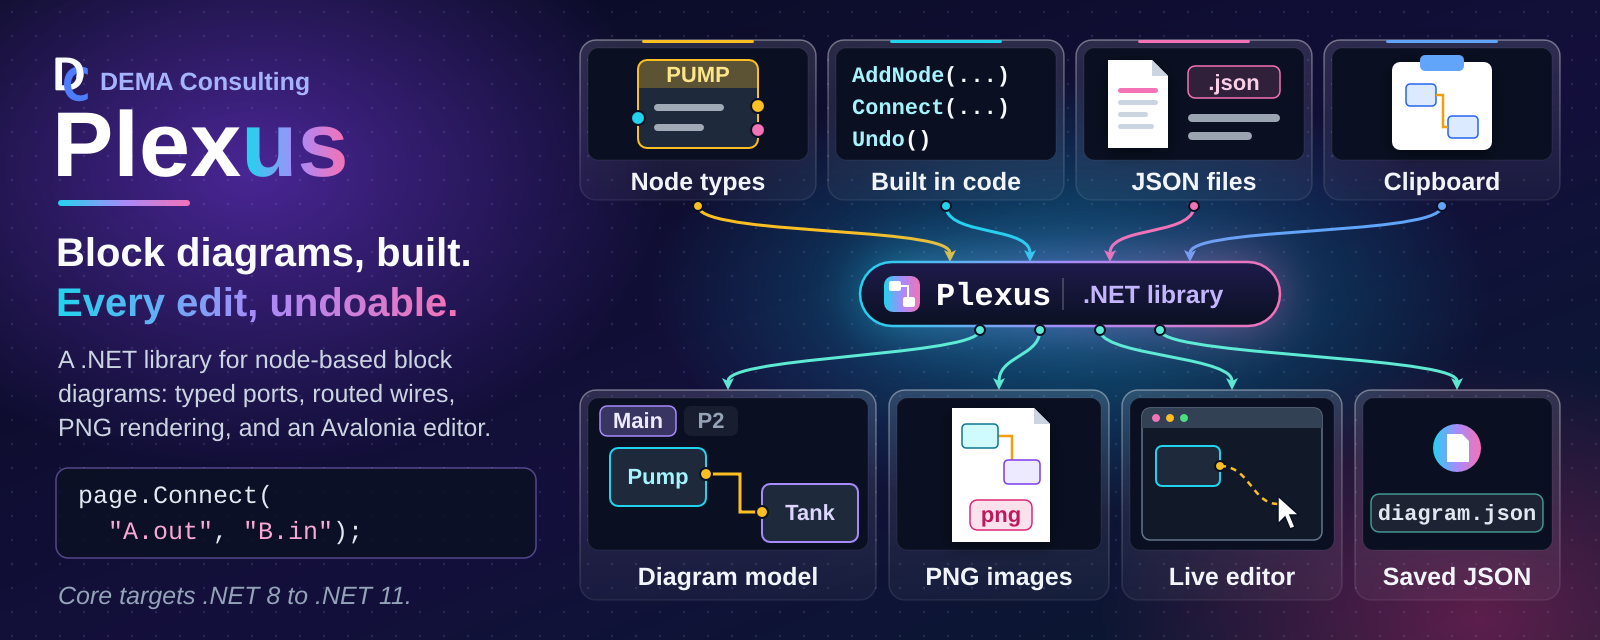
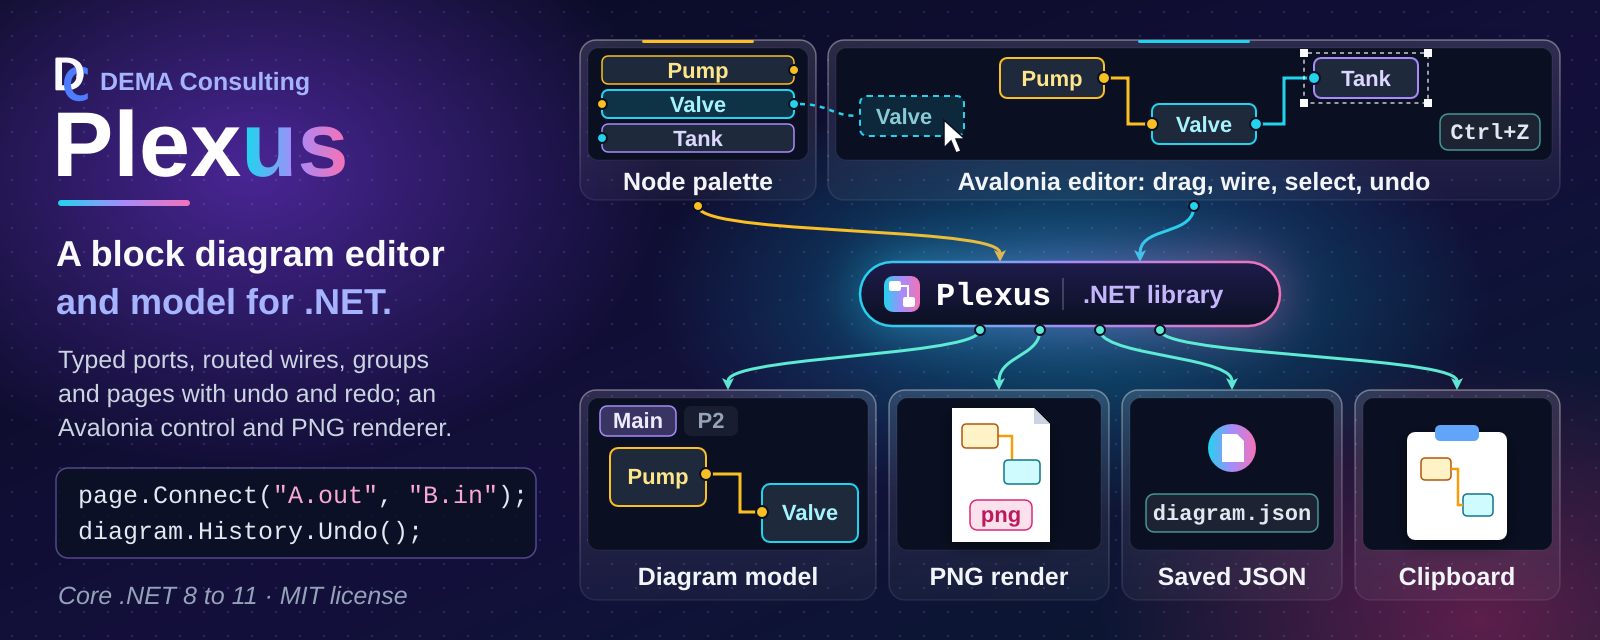
Sync agents/template and calm the README hero (#34)
* Sync agents, skills and standards from shared Agents repo

Record the legacy SysML2 package layout as a repository-specific exception.

* Sync template: yamlfix comment rewrite off, script CUSTOMIZATION headers

* Redesign the README hero as a calm diagram-designer banner and make it the H1

---------

diff --git a/.github/standards/sysml2-modeling.md b/.github/standards/sysml2-modeling.md
@@ -31,15 +31,15 @@ docs/sysml2/
 ├── common/
 │   └── software-items.sysml           # shared SoftwareItemMetadata::SoftwareInfo metadata def
 ├── model/
-│   ├── {system-name}.sysml            # system-level part def only (no subsystems/units inline)
+│   ├── {system-name}.sysml            # package {SystemName}; system-level part def only (no subsystems/units inline)
 │   ├── {system-name}/
-│   │   ├── {subsystem-name}.sysml     # subsystem part def; nests further for sub-subsystems
+│   │   ├── {subsystem-name}.sysml     # package {SystemName}_{SubsystemName}Subsystem; nests further for sub-subsystems
 │   │   └── {subsystem-name}/
-│   │       └── {unit-name}.sysml      # one file per unit
-│   ├── ots.sysml                      # OTS dependency parts (optional; if OTS items exist)
-│   └── shared.sysml                   # Shared Package parts (optional; if Shared Packages exist)
+│   │       └── {unit-name}.sysml      # package {SystemName}_{UnitName}; one file per unit
+│   ├── ots.sysml                      # package OtsDependencies: OTS parts (optional; if OTS items exist)
+│   └── shared.sysml                   # package SharedPackages: Shared Package parts (optional; if Shared Packages exist)
 └── views/
-    └── design-views.sysml             # named view usages rendered for the design document
+    └── design-views.sysml             # package {RepoName}DesignViews; named view usages rendered for the design document
 ```
 
 `docs/sysml2/common/software-items.sysml` defines the `SoftwareItemMetadata::SoftwareInfo`
@@ -62,14 +62,42 @@ so no single alias name would generalize. Agents discover the system(s) present 
 `docs/sysml2/**/*.sysml`, not by assuming a fixed name.
 
 Always pass the full set of `.sysml` files (or an equivalent glob) to every `sysml2tools`
-invocation — the model spans multiple files and cross-references between them; files sharing
-the same `package Name { ... }` merge into one namespace automatically with no `import`
-required, as long as all files are passed together. As of `sysml2tools` 0.1.0-beta.5,
+invocation — the model spans multiple files and cross-references between them, and a
+reference only resolves when the file declaring its target is loaded (see Package Structure
+below for how files reference each other). As of `sysml2tools` 0.1.0-beta.5,
 `lint` and `render` both expand `*`/`**` glob patterns internally (recursing correctly into
 subdirectories), so pass a single **quoted** glob string (e.g. `'docs/sysml2/**/*.sysml'`)
 and let the tool resolve it — do not rely on the shell to expand it, and do not quote-strip
 the pattern before it reaches the tool. Quoting keeps the behavior identical across
 PowerShell and bash, since neither shell needs to (or reliably does) expand `**` itself.
+
+## Package Structure
+
+SysML v2 has no package merging: each file is its own root namespace, and two root packages
+with the same name are duplicate members of the global namespace (the OMG Pilot
+Implementation reports "Duplicate of other owned member name" for each, and references across
+the halves do not resolve). A model that only loads because a tool is lenient is not portable,
+so:
+
+- Each `.sysml` file declares **exactly one uniquely named package**, and a package is never
+  declared (or "reopened") in more than one file.
+- Name each package from its place in the hierarchy, joined with an underscore:
+  `{SystemName}` for the system file, `{SystemName}_{SubsystemName}Subsystem` for a subsystem
+  (including a nested sub-subsystem, which is not prefixed with its parent subsystem), and
+  `{SystemName}_{UnitName}` for a unit. The system prefix keeps names unique across systems.
+  The shared files use `OtsDependencies` and `SharedPackages`, and the single views file uses
+  one repository-level package, `{RepoName}DesignViews` (not one per system).
+- Package names must be unique **repository-wide**. The short forms above are the default;
+  when one would collide (two `Storage` subsystems in different branches, or two units named
+  `Cache` in different subsystems), qualify it with the owning subsystem path, for example
+  `{SystemName}_{SubsystemName}_{UnitName}` (`Acme_Ingest_Cache` and `Acme_Query_Cache`).
+- Reference other files with an explicit `private import {PackageName}::*;` (a system or
+  subsystem file imports the package of each direct member so its `part` usages resolve; every
+  file that applies `SoftwareInfo` imports `SoftwareItemMetadata::*`).
+- Where an import would form a cycle (for example a unit that depends on a package that
+  already imports it), or for a one-off reference into another system, use the qualified name
+  instead, e.g. `dependency {UnitName} to {SystemName}_{OtherUnit}::{OtherUnit};`.
+  Import cycles raise a lint warning; qualified references do not.
 
 ## Model Content
 
@@ -174,11 +202,13 @@ Views control what gets rendered into diagrams for the design document. Use name
 **usages** (not `view def` **definitions**) — `expose` is only valid inside a usage:
 
 ```sysml
-package {SystemName} {
+package {RepoName}DesignViews {
     private import StandardViewDefinitions::*;
+    private import {SystemName}::*;
+    private import {SystemName}_{SubsystemName}Subsystem::*;
 
     view SoftwareStructureView : InterconnectionView {
-        expose {SystemName}::**;     // all members, recursively: system + subsystems + units
+        expose {SystemName}::{SystemName}System::**;  // system part def, recursively: subsystems + units
     }
 
     view {SystemName}View {
@@ -186,10 +216,12 @@ package {SystemName} {
     }
 
     view {SubsystemName}View {
-        expose {SubsystemName};      // one subsystem def only
+        expose {SubsystemName}Subsystem;      // one subsystem def only
     }
 }
 ```
+
+Views import (or qualify) every package whose members they expose, like any other file.
 
 Type `SoftwareStructureView` by a standard view definition from the SysML v2 Views library
 (`GeneralView`, `InterconnectionView`, ...; requires `sysml2tools` 0.3.0-beta.3+). The view
@@ -223,25 +255,27 @@ There is no dedicated `DependencyView`/`{SubsystemName}DependencyView` diagram c
 above), not rendered.
 
 When a repository has multiple systems, type `SoftwareStructureView` by `GeneralView`,
-expose each system package's members, and filter out documentation so the overview stays
-readable — the general view draws one package frame per system, while an interconnection
-view places all systems in a single row:
+expose each system's part def (and each subsystem's, by qualified name), and filter out
+documentation so the overview stays readable — the general view draws one package frame per
+system, while an interconnection view places all systems in a single row:
 
 ```sysml
 package {RepoName}DesignViews {
     private import StandardViewDefinitions::*;
 
     view SoftwareStructureView : GeneralView {
-        expose {SystemNameA}::**;
-        expose {SystemNameB}::**;
-        filter not @SysML::Documentation;
+        expose {SystemNameA}::{SystemNameA}System;
+        expose {SystemNameA}_{SubsystemName}Subsystem::{SubsystemName}Subsystem;
+        expose {SystemNameB}::{SystemNameB}System;
+        filter not (@SysML::Documentation);
     }
 }
 ```
 
 Documentation (`doc`) is exposed with its owner and drawn as a `doc` compartment unless a
-view filters it out; use `filter not @SysML::Documentation;` wherever doc text would clutter
-a diagram.
+view filters it out; use `filter not (@SysML::Documentation);` wherever doc text would clutter
+a diagram. The parentheses are required: the SysML v2 grammar does not accept the unparenthesized
+`filter not @SysML::Documentation;`.
 
 ## Diagram Embedding
 
@@ -313,6 +347,9 @@ sync.
   `sourceFiles`; the purpose statement appears only in the `doc` comment, never in `SoftwareInfo`
 - [ ] `docs/sysml2/views/design-views.sysml` uses `view Name { expose ...; }` usages, not
   `view def` definitions
+- [ ] Each `.sysml` file declares exactly one uniquely named package (never the same package
+  in two files), named per Package Structure, and references other files through
+  `private import` or qualified names (qualified where an import would form a cycle)
 - [ ] View names follow the `SoftwareStructureView` / `{SystemName}View` /
   `{SubsystemName}View` convention (no dedicated `DependencyView`)
 - [ ] Each Unit's real collaborators are captured as `dependency A to B;` statements, and each

diff --git a/.github/skills/sysml2tools-query/SKILL.md b/.github/skills/sysml2tools-query/SKILL.md
@@ -21,11 +21,15 @@ dotnet tool restore
 ## Model files
 
 - `docs/sysml2/model/{system-name}.sysml` — system-level `part def` only (no subsystems/units
-  inline). A repository may contain more than one system.
+  inline), in package `{SystemName}`. A repository may contain more than one system.
 - `docs/sysml2/model/{system-name}/{subsystem-name}.sysml` and
   `docs/sysml2/model/{system-name}/{subsystem-name}/{unit-name}.sysml` — one file per
   Subsystem/Unit, nested to mirror the same folder depth as that item's companion
-  `docs/design/`, `docs/reqstream/`, and `docs/verification/` files.
+  `docs/design/`, `docs/reqstream/`, and `docs/verification/` files. Each declares its own
+  uniquely named package; by default `{SystemName}_{SubsystemName}Subsystem` or
+  `{SystemName}_{UnitName}`, qualified with the subsystem path
+  (`{SystemName}_{SubsystemName}_{UnitName}`) when the short name would collide. An element's
+  qualified name is e.g. `{SystemName}_{UnitName}::{UnitName}`.
 - `docs/sysml2/model/ots.sysml` — off-the-shelf (OTS) dependency parts (present when OTS items
   exist).
 - `docs/sysml2/model/shared.sysml` — Shared Package parts (present when Shared Package items
@@ -35,9 +39,10 @@ dotnet tool restore
   useful to see how diagrams are scoped.
 
 Always pass all `.sysml` files (or a glob covering them) to every `sysml2tools`
-invocation — the model spans multiple files and cross-references between them; files that
-reopen the same `package Name { ... }` from different files merge into one namespace
-automatically, no `import` required. As of `sysml2tools` 0.1.0-beta.5, every subcommand
+invocation — the model spans multiple files and cross-references between them (each file
+declares one uniquely named package and references others through `import` or qualified
+names; same-named packages in different files are not merged), so every file a reference
+points at must be loaded. As of `sysml2tools` 0.1.0-beta.5, every subcommand
 (`lint`, `render`, `query`) expands `*`/`**` glob patterns internally and recurses
 correctly — pass a single **quoted** glob string and let the tool resolve it, rather than
 relying on the shell (quoting works identically in both PowerShell and bash):
@@ -57,7 +62,7 @@ summary line, so one query gets you every artifact location for that item withou
 the source tree:
 
 ```pwsh
-dotnet sysml2tools query describe -e {SystemName}::{UnitName} 'docs/sysml2/**/*.sysml'
+dotnet sysml2tools query describe -e {SystemName}_{UnitName}::{UnitName} 'docs/sysml2/**/*.sysml'
 ```
 
 ```text

diff --git a/AGENTS.md b/AGENTS.md
@@ -180,10 +180,32 @@ requires it and the modification preserves the documented design intent:
 
 - `.reviewmark.yaml`, `.textlint.yaml`, `.editorconfig`
 - `.lintmark.yaml`, `.yamllint.yaml`
-- `requirements.yaml`, `fix.ps1`, `lint.ps1`
+- `requirements.yaml`
+
+# Project Scripts
+
+`build.ps1`, `lint.ps1`, and `fix.ps1` belong to the project: extend them as it grows. Add project-specific
+steps, update tool versions, and add optional parameters that focus a run (for example one library in a
+multi-library repository, or headless tests without GUI automation). Two rules keep them trustworthy:
+
+- Run with no arguments, each script still does its full job (CI and the agents rely on that); slow or
+  environment-dependent test tiers may be opt-in switches of `build.ps1`.
+- Never remove or weaken a check to make lint or tests pass.
 
 # Continuous Compliance Overview
 
 This repository follows the [Continuous Compliance](https://github.com/demaconsulting/ContinuousCompliance)
 approach. Tools: **ReqStream** (requirements traceability), **ReviewMark** (file review enforcement),
 **BuildMark** (tool versions), **VersionMark** (version tracking).
+
+# Repository-Specific Standards Exceptions
+
+## SysML2 package structure (legacy layout, migration pending)
+
+The model under `docs/sysml2/` predates the `sysml2-modeling.md` Package Structure rules. Package
+`Plexus` is reopened across 32 files, `PlexusAvalonia` across 11, `PlexusAvaloniaPropertyGrid` across 12
+and `PlexusRendering` across 6 (each count includes `views/design-views.sysml`, which reopens them rather
+than declaring `PlexusDesignViews`); the OTS package is `OTS` rather than `OtsDependencies`. The
+`sysml2-modeling.md` Package Structure rules and the `sysml2tools-query` qualified-name examples apply once
+the model is migrated in a dedicated PR. Until then agents use the existing package names and must not
+partially restructure the model.

diff --git a/.github/skills/docdown/SKILL.md b/.github/skills/docdown/SKILL.md
@@ -21,7 +21,9 @@ dotnet docdown --help
 
 ## Scratch Folder
 
-The default `--overwrite clean` deletes everything in the scratch folder, so always pass a new
+The default `--overwrite clean` only replaces an earlier DocDown extraction: it deletes the files that
+folder's DocDown manifest lists and refuses to run if the folder holds anything else
+(`--overwrite overwrite` deletes everything and is never needed here). Still, always pass a new
 subfolder dedicated to the one document - never an existing folder:
 
 - **Preferred**: the agent session folder, when the host provides one, for example
@@ -39,8 +41,9 @@ Never extract into the repository.
    dotnet docdown --input path/to/data-sheet.pdf --scratch {scratch}/data-sheet
    ```
 
-   The last line of output is the path to `summary.txt`. Exit code `1` means the document was
-   unreadable or an argument was bad.
+   The last line of output is the path to `summary.txt`. Exit code `1` means the run failed for an
+   expected reason - an unreadable document, a bad argument, or an option such as `--log` whose file
+   could not be opened; the message says which.
 
 2. Read `summary.txt` first: what was extracted, what is where, and notes on anything that could
    not be read.

diff --git a/.github/agents/orchestrator.agent.md b/.github/agents/orchestrator.agent.md
@@ -48,3 +48,16 @@ briefly, what you loaded.
   let the user answer in their own words. Do not batch decisions into structured question forms (such as an
   `ask_user` tool); they strip away the context the user needs to decide and turn the session into a
   questionnaire.
+
+# Pull Requests (MANDATORY)
+
+Aim for pull requests that each merge one complete, useful change that could be cherry-picked on its own.
+
+- Before starting work that could span more than one pull request, propose the grouping and let the user
+  decide. The user may split it, or combine several small requests into one pull request.
+- When splitting, split by behavior, not by layer or file type: each part carries its own code, tests,
+  requirements, and docs, builds and passes alone, and leaves no stubs or dead code for a later part.
+- Deliver parts in order: start the next part from main only after the previous one merges.
+- Review fixes, lint fixes, and follow-ups go into the open pull request they belong to, not a new one.
+- Sub-agents work on the agreed branch and do not open pull requests; you decide when it is complete.
+- Keep mechanical churn (formatting, renames, generated files) in its own commit so reviewers can skip it.

diff --git a/.github/agents/planning.agent.md b/.github/agents/planning.agent.md
@@ -52,10 +52,13 @@ Repeat up to 2 more times, stopping when the plan is stable.
 
 List up to 5 risks with a brief mitigation for each.
 
-## Step 6 — Feasibility Assessment
+## Step 6 — Feasibility and Delivery
 
 State whether this can be implemented in a single development pass and any
-preconditions that affect feasibility.
+preconditions that affect feasibility. Propose how the work groups into pull
+requests: one complete, useful change per pull request where possible; if it
+should be split, list ordered parts that are split by behavior (not by layer or
+file type) and each build, pass, and deliver something on their own.
 
 ## Step 7 — Recommendation
 
@@ -108,9 +111,12 @@ Then respond to the caller with ONLY the lean structured summary below.
 
 1. **[severity]** {risk} — {mitigation}
 
-## Feasibility Assessment
+## Feasibility and Delivery
 
 {Single-pass or not, and why. Any preconditions.}
+
+{Proposed pull-request grouping: one pull request, or ordered parts split by behavior,
+each with what it delivers on its own.}
 
 ## Unknowns
 

diff --git a/README.md b/README.md
@@ -1,4 +1,4 @@
-# Plexus
+# ![Plexus: A block diagram editor and model for .NET][hero]
 
 [![GitHub forks][badge-forks]][link-forks]
 [![GitHub stars][badge-stars]][link-stars]
@@ -8,8 +8,6 @@
 [![Quality Gate][badge-quality]][link-quality]
 [![Security][badge-security]][link-security]
 [![NuGet][badge-nuget]][link-nuget]
-
-![Plexus banner: the Plexus name with the tagline 'Block diagrams, built. Every edit, undoable.' and the C# call 'page.Connect("A.out", "B.in");'. Node types with typed ports, diagrams built in code, JSON files, and pasted clipboard content flow on curved arrows into the Plexus .NET library, and arrows lead out to what it produces: the diagram model with pages, nodes, and routed wires, PNG images from its headless renderer, the live Avalonia editor control, and saved JSON snapshots][hero]
 
 Plexus is a general-purpose .NET library for building and editing node-based block diagrams with typed ports, routed
 wires, annotations, nestable collapsible groups, multiple pages, full undo/redo, and cross-application copy/paste. It
